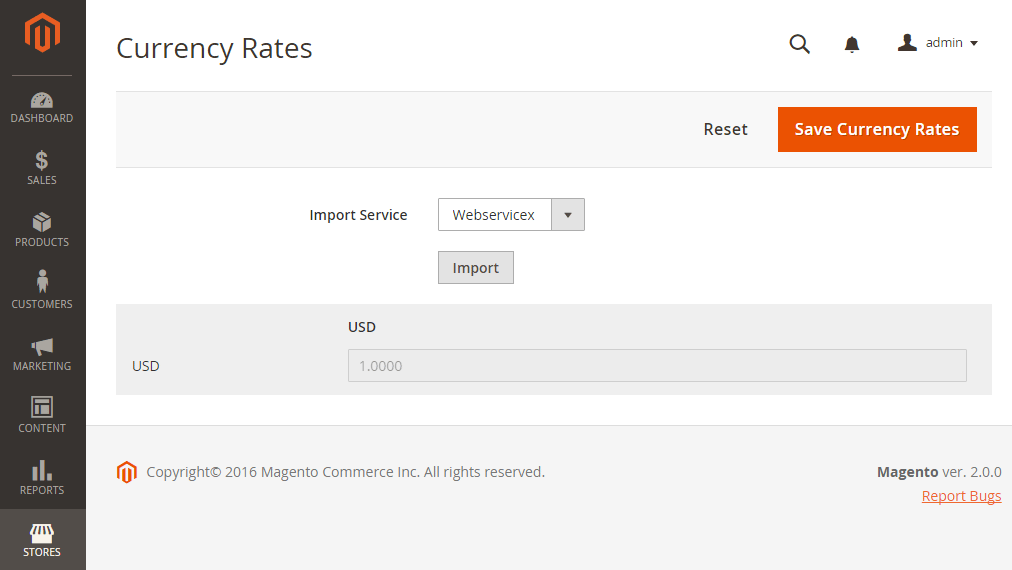
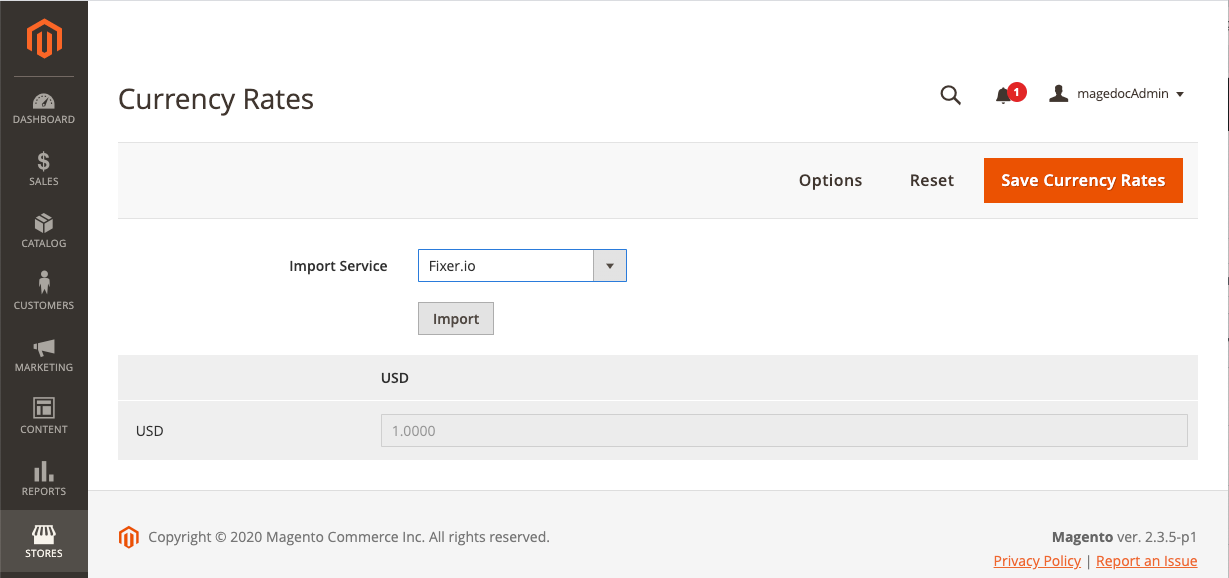
Remove old webserviceX and Yahoo currency connection information and make current

diff --git a/src/stores/currency-configuration.md b/src/stores/currency-configuration.md
@@ -13,7 +13,7 @@ _Scope of Base Currency_
 
 1. On the _Admin_ sidebar, go to **Stores** > _Settings_ > **Configuration**.
 
-1. In the upper-right corner, set **Store View** to the store view where the configuration applies.
+1. In the upper-left corner, set the **Scope** to the store view where the configuration applies.
 
 1. In the left panel under _General_, choose **Currency Setup**.
 
@@ -25,10 +25,10 @@ _Scope of Base Currency_
 
    - **Allowed Currencies** — Select all currencies that you accept as payment in the store view. Make sure to also select your primary currency.
 
-        For multiple currencies, hold down the Ctrl key (PC) or the Command key (Mac) and click each option.
+      For multiple currencies, hold down the Ctrl key (PC) or the Command key (Mac) and click each option.
 
-    ![General configuration - currency options]({% link images/images/config-general-currency-setup-currency-options.png %}){: .zoom}
-    [_Currency Options_]({% link configuration/general/currency-setup.md %})
+   ![General configuration - currency options]({% link images/images/config-general-currency-setup-currency-options.png %}){: .zoom}
+   [_Currency Options_]({% link configuration/general/currency-setup.md %})
 
 1. When prompted to refresh the cache, click the **Close** ( ![Close box]({% link images/images/btn-close.png %})) box in the upper-right corner of the system message.
 
@@ -36,34 +36,59 @@ _Scope of Base Currency_
 
 1. Define the scope of the base currency:
 
-   - In the left panel under _Catalog_, choose **Catalog**. Then, scroll down and expand ![Expansion selector]({% link images/images/btn-expand.png %}) the **Price** section. (This section only appears if the scope is set as **Store View:** _Default config_.)
+   - In the left panel, expand **Catalog** and choose **Catalog** underneath.
+
+   - Scroll down and expand ![Expansion selector]({% link images/images/btn-expand.png %}) the **Price** section. (This section only appears if the scope is set as **Store View:** _Default config_.)
 
    - Set **Catalog Price Scope** to either `Global` or `Website`.
 
-    ![Catalog configuration - price options]({% link images/images/config-catalog-catalog-price.png %}){: .zoom}
-    _Price_
+   ![Catalog configuration - price options]({% link images/images/config-catalog-catalog-price.png %}){: .zoom}
+   _Price_
 
 ## Step 2: Configure the Import Connection
 
-1. Scroll back up to the top of the page. In the left panel under _General_, choose **Currency Setup**.
+1. Scroll to the top of the page.
 
-1. Expand ![Expansion selector]({% link images/images/btn-expand.png %}) the **WebserviceX** section.
+1. In the left panel, expand **General** and choose **Currency Setup**.
 
-1. In the **Connection Timeout in Seconds** field, enter the number of seconds of inactivity to allow before the connection times out.
+1. Configure your currency service connection:
 
-    ![General configuration - WebserviceX currency options]({% link images/images/config-general-currency-setup-webservicex.png %}){: .zoom}
-    _WebserviceX_
+   There are two service options: _fixer.io_ and _Currency Converter API_
+
+   - To connect to the [Fixer.io service](https://fixer.io/):
+
+     - Expand ![Expansion selector]({% link images/images/btn-expand.png %}) the **Fixer.io** section.
+
+     - Enter your fixer.io **API key**.
+
+     - For **Connection Timeout in Seconds**, enter the number of seconds of inactivity to allow before the connection times out.
+
+      ![General configuration - currency setup - Fixer.io options]({% link images/images/config-general-currency-setup-fixerio.png %}){: .zoom}
+      _Fixer.io_
+
+   - To connect to the [Currency Convertor API service](https://free.currencyconverterapi.com/):
+
+     - Expand ![Expansion selector]({% link images/images/btn-expand.png %}) the **Currency Convertor API** section.
+
+     - Enter your Currency Convertor **API key**.
+
+     - For **Connection Timeout in Seconds**, enter the number of seconds of inactivity to allow before the connection times out.
+
+      ![General configuration - currency setup - Currency Converter API options]({% link images/images/config-general-currency-setup-converter.png %}){: .zoom}
+      _Currency Converter API_
 
 ## Step 3: Configure the Scheduled Import Settings
 
-1. Continuing with Currency Setup, expand ![]({% link images/images/btn-expand.png %}) the **Scheduled Import Settings** section.
+1. Continuing with Currency Setup, expand ![Expansion selector]({% link images/images/btn-expand.png %}) the **Scheduled Import Settings** section.
 
-    ![General configuration - currency scheduled import settings]({% link images/images-ee/config-general-currency-setup-scheduled-import-settings.png %}){: .zoom}
-    _Scheduled Import Settings_
+   ![General configuration - currency scheduled import settings]({% link images/images/config-general-currency-setup-scheduled-import-settings.png %}){: .zoom}
+   _Scheduled Import Settings_
 
-1. To automatically update currency rates, set **Enabled** to `Yes`. Then, do the following:
+1. To automatically update currency rates, set **Enabled** to `Yes`.
 
-   - **Service** — Set to the rate provider. The default value is `Webservicex`.
+1. Set the update options:
+
+   - **Service** — Set to the rate provider. The default value is `Fixer.io`.
 
    - **Start Time** — Set to the hour, minute, and second that the rates will be updated according to the schedule.
 
@@ -75,7 +100,7 @@ _Scope of Base Currency_
 
    - **Error Email Recipient** — Enter the email address of the person who is to receive email notification if an error occurs during the import process.
 
-        To enter multiple email addresses, separate each with a comma.
+      To enter multiple email addresses, separate each with a comma.
 
    - **Error Email Sender** — Set to the [store contact]({% link stores/store-email-addresses.md %}) that appears as the sender of the error notification.
 
@@ -83,10 +108,10 @@ _Scope of Base Currency_
 
 1. When complete, click <span class="btn">Save Config</span>.
 
-1. When prompted to update the cache, click the **Cache Management** link. Then, refresh the invalid cache.
+1. When prompted to update the cache, click the **Cache Management** link and refresh the invalid cache.
 
-    ![System message - refresh the invalid cache]({% link images/images/msg-cache-management.png %}){: .zoom}
-    _Refresh Cache_
+   ![System message - refresh the invalid cache]({% link images/images/msg-cache-management.png %}){: .zoom}
+   _Refresh Cache_
 
 ## Step 4: Update the Currency Rates
 

diff --git a/src/configuration/general/currency-setup.md b/src/configuration/general/currency-setup.md
@@ -4,9 +4,10 @@ title: Currency Setup
 
 Stores > Settings > [Configuration]({% link stores/configuration.md %}) > [General]({% link configuration/general/general.md %}) > Currency Setup
 
-## Currency Options
+{:.bs-callout-info}
+See [Currency Configuration]({% link stores/currency-configuration.md %}) for specific configuration details.
 
-See [Currency Configuration]({% link stores/currency-configuration.md %}) for specific configuration fields and options.
+## Currency Options
 
 ![Currency Setup > Currency Options]({% link images/images/config-general-currency-setup-currency-options.png %}){: .zoom}
 _Currency Options configuration settings_
@@ -17,44 +18,29 @@ _Currency Options configuration settings_
 |Default Display Currency|Store View|The primary currency used to display prices.|
 |Allowed Currencies|Store View|The currencies accepted by your store for payment.|
 
-## Yahoo Finance Exchange
-
-See [Updating Currency Rates]({% link stores/currency-update.md %}) for specific configuration fields and options.
-
-![Currency Setup > Yahoo Finance Exchange]({% link images/images/config-general-currency-setup-yahoo-finance-exchange.png %}){: .zoom}
-_Yahoo Finance Exchange configuration settings_
-
-|Field|[Scope]({% link configuration/scope.md %})|Description|
-|--- |--- |--- |
-|Connection Timeout in Seconds|Global|Determines the number of seconds of inactivity before a Yahoo Finance Exchange session times out. Default value is 100.|
-
 ## Fixer.io
-
-See [Updating Currency Rates]({% link stores/currency-update.md %}) for specific configuration fields and options.
 
 ![Currency Setup > Fixer.io]({% link images/images/config-general-currency-setup-fixer-io.png %}){: .zoom}
 _Fixer.io configuration settings_
 
 |Field|[Scope]({% link configuration/scope.md %})|Description|
 |--- |--- |--- |
+|API key|Global|The key used to access the conversion service through your account. For more information, see [Fixer.io](https://fixer.io/).|
 |Connection Timeout in Seconds|Global|Determines the number of seconds of inactivity before a Fixer.io session times out. Default value is 100.|
 
-## Webservicex
+## Currency Converter API
 
-See [Updating Currency Rates]({% link stores/currency-update.md %}) for specific configuration fields and options.
-
-![Currency Setup > Webservicex]({% link images/images/config-general-currency-setup-webservicex.png %}){: .zoom}
-_Webservicex configuration settings_
+![Currency Setup > Currency Converter API]({% link images/images/config-general-currency-setup-converter.png %}){: .zoom}
+_Currency Converter API configuration settings_
 
 |Field|[Scope]({% link configuration/scope.md %})|Description|
 |--- |--- |--- |
-|Connection Timeout in Seconds|Global|Determines the number of seconds of inactivity before a Webservicex session times out. Default value is 100.|
+|API key|Global|The key used to access the conversion service. For more information, see [Currency Convertor API](https://free.currencyconverterapi.com/).|
+|Connection Timeout in Seconds|Global|Determines the number of seconds of inactivity before a Currency Converter session times out. Default value is 100.|
 
 ## Scheduled Import Settings
 
-See [Updating Currency Rates]({% link stores/currency-update.md %}) for specific configuration fields and options.
-
-![Currency Setup > Scheduled Import Settings]({% link images/images-ee/config-general-currency-setup-scheduled-import-settings.png %}){: .zoom}
+![Currency Setup > Scheduled Import Settings]({% link images/images/config-general-currency-setup-scheduled-import-settings.png %}){: .zoom}
 _Scheduled Import configuration settings_
 
 |Field|[Scope]({% link configuration/scope.md %})|Description|

diff --git a/src/stores/currency-update.md b/src/stores/currency-update.md
@@ -23,18 +23,18 @@ _Updating Currency Rates_
 
 1. Set **Import Service** to the currency rate provider.
 
-   WebserviceX is the default provider.
+   Fixer.io is the default provider.
 
 1. Click **Import**.
 
-    The updated rates appear in the Currency Rates list. If the rates have changed since the last update, the old rate appears below for reference.
+   The updated rates appear in the Currency Rates list. If the rates have changed since the last update, the old rate appears below for reference.
 
 1. When complete, click <span class="btn">Save Currency Rates</span>.
 
 1. When prompted to update the cache, click the **Cache Management** link. Then, refresh the invalid cache.
 
-    ![System message - refresh the invalid cache]({% link images/images/stores-currency-rate-update-cache-refresh.png %}){: .zoom}
-    _Refresh Invalid Caches_
+   ![System message - refresh the invalid cache]({% link images/images/stores-currency-rate-update-cache-refresh.png %}){: .zoom}
+   _Refresh Invalid Caches_
 
 ## Import currency rates on schedule
 
